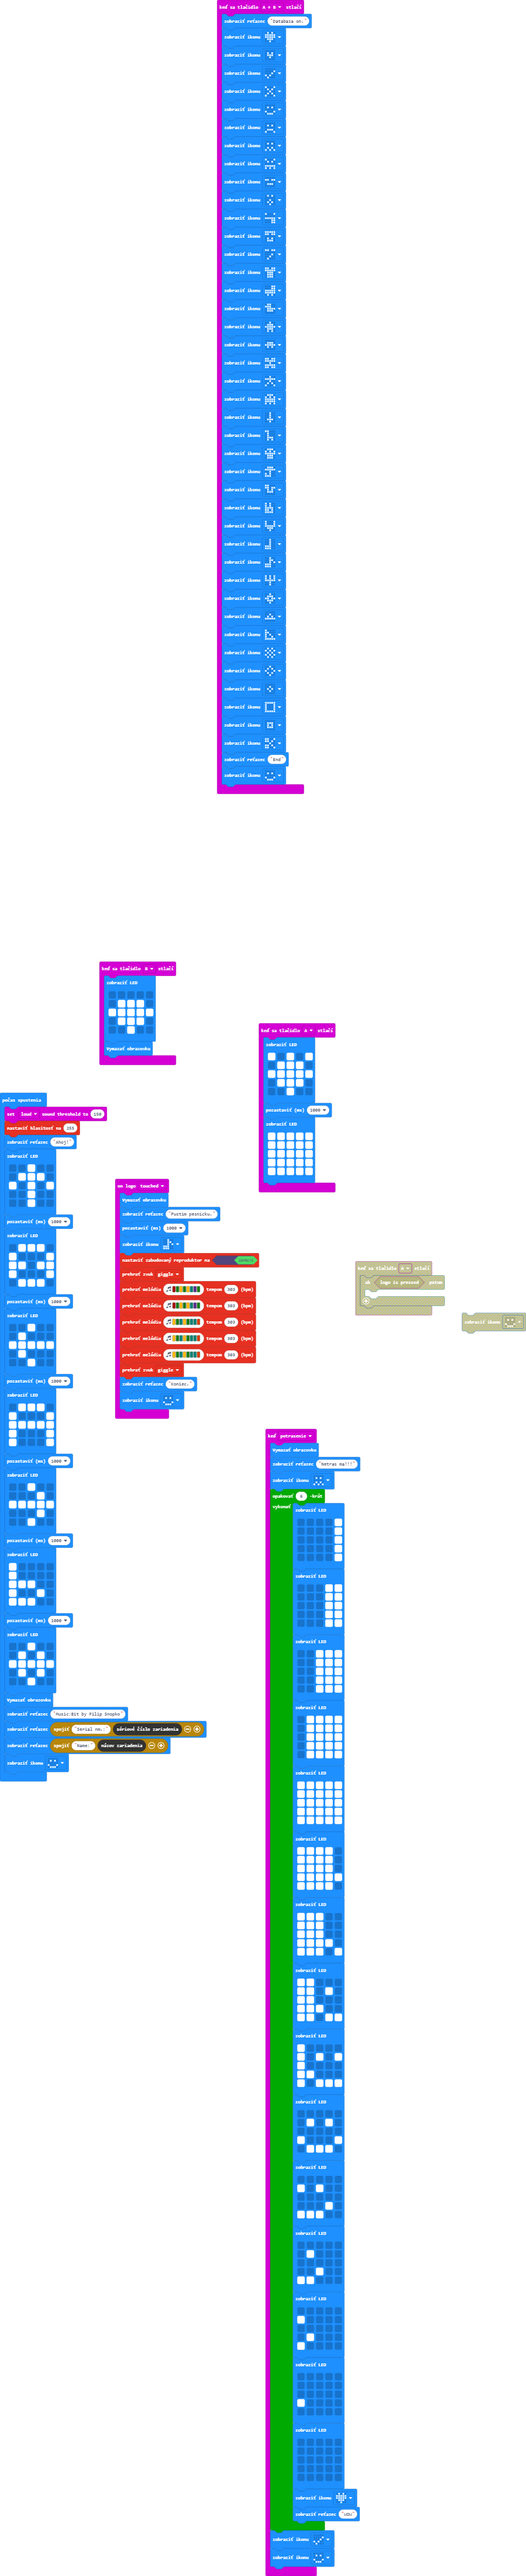
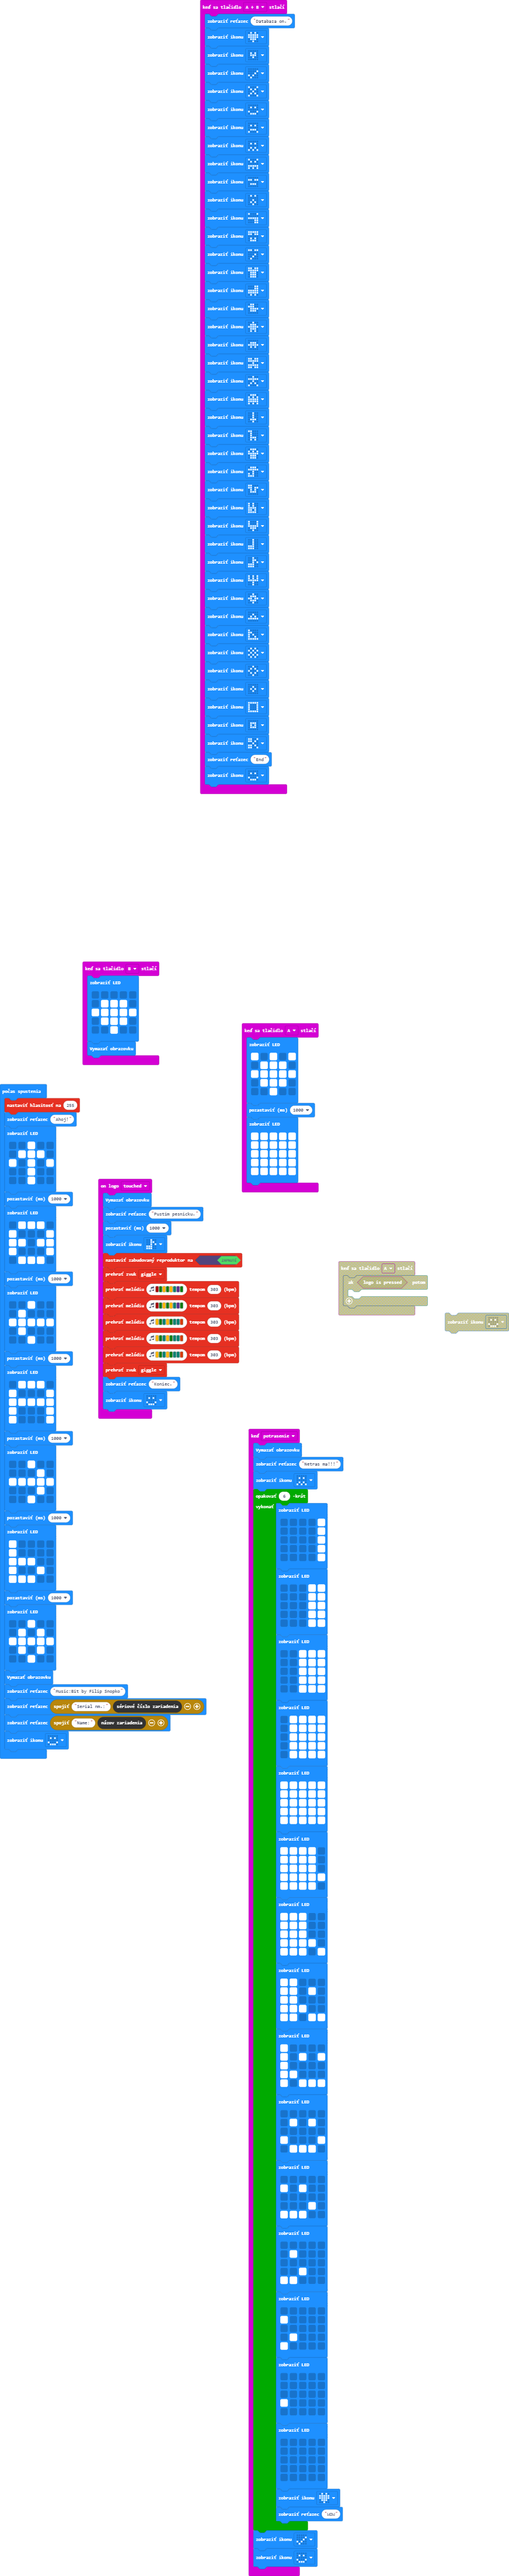
Aktualizovať main.blocks, main.ts

diff --git a/main.ts b/main.ts
@@ -202,7 +202,6 @@ input.onLogoEvent(TouchButtonEvent.Touched, function () {
     basic.showString("Koniec.")
     basic.showIcon(IconNames.Happy)
 })
-input.setSoundThreshold(SoundThreshold.Loud, 150)
 music.setVolume(255)
 basic.showString("Ahoj!")
 basic.showLeds(`
